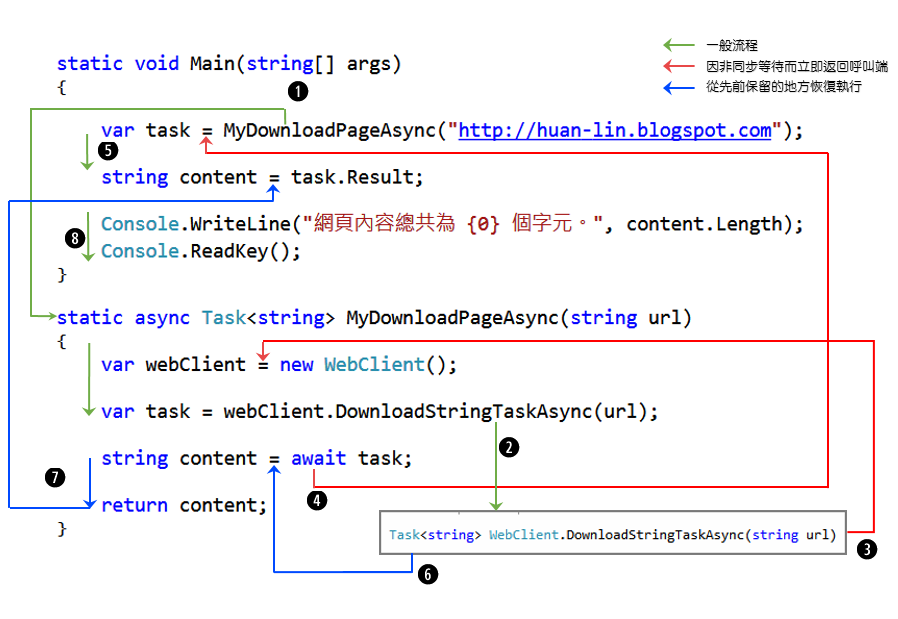
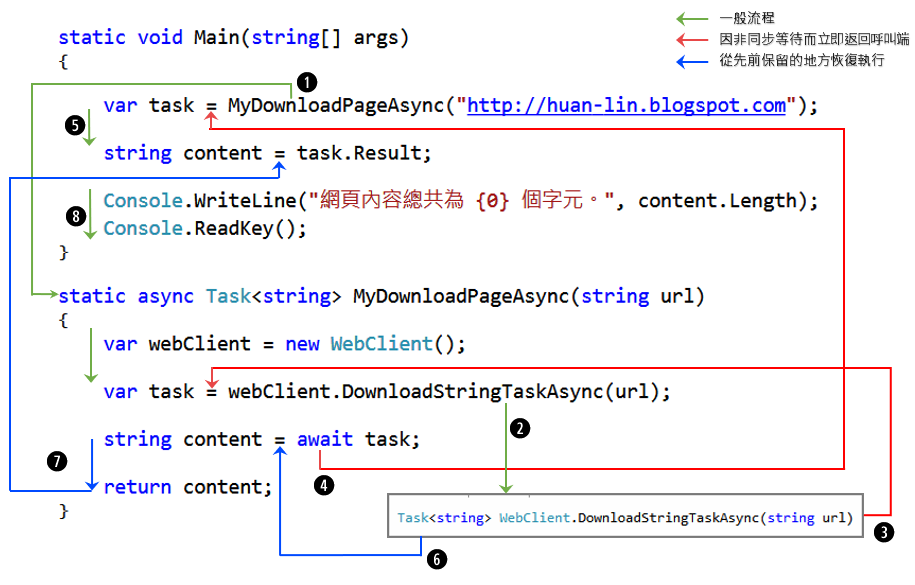
Update ch03

Changed region(s): [[0.0, 0.0, 0.9978, 0.4615], [0.0, 0.4923, 0.9978, 0.9846]]

diff --git a/Examples/Ch03/Ex04_Async/Program.cs b/Examples/Ch03/Ex04_Async/Program.cs
@@ -4,28 +4,25 @@ using System.Threading.Tasks;
 
 namespace Ex04_Async
 {
-    class Program
+    static class Program
     {
-        static void Main(string[] args)
+        static void Main()
         {
 
-            var task = MyDownloadPageAsync("http://huan-lin.blogspot.com");
+            var task = MyDownloadPageAsync("https://www.huanlintalk.com");
 
             string content = task.Result;
 
             Console.WriteLine("網頁內容總共為 {0} 個字元。", content.Length);
-            Console.ReadKey();
         }
 
         static async Task<string> MyDownloadPageAsync(string url)
         {
-            var webClient = new WebClient();
-
-            var task = webClient.DownloadStringTaskAsync(url);
-
-            string content = await task;
-
-            return content;
+            using (var wc = new WebClient())
+            {
+                var task = wc.DownloadStringTaskAsync(url);
+                return await task;
+            }
         }
     }
 }

diff --git a/Examples/Ch03/Ex03_Sync/Program.cs b/Examples/Ch03/Ex03_Sync/Program.cs
@@ -3,21 +3,21 @@ using System.Net;
 
 namespace Ex03_Sync
 {
-    class Program
+    static class Program
     {
-        static void Main(string[] args)
+        static void Main()
         {
-            string content = MyDownloadPage("http://huan-lin.blogspot.com");
+            string content = MyDownloadPage("https://www.huanlintalk.com");
 
             Console.WriteLine("網頁內容總共為 {0} 個字元。", content.Length);
-            Console.ReadKey();
         }
 
         static string MyDownloadPage(string url)
         {
-            var client = new WebClient();  
-            string content = client.DownloadString(url);
-            return content;
+            using (var wc = new WebClient())
+            {
+                return wc.DownloadString(url);
+            }
         }
     }
 }
